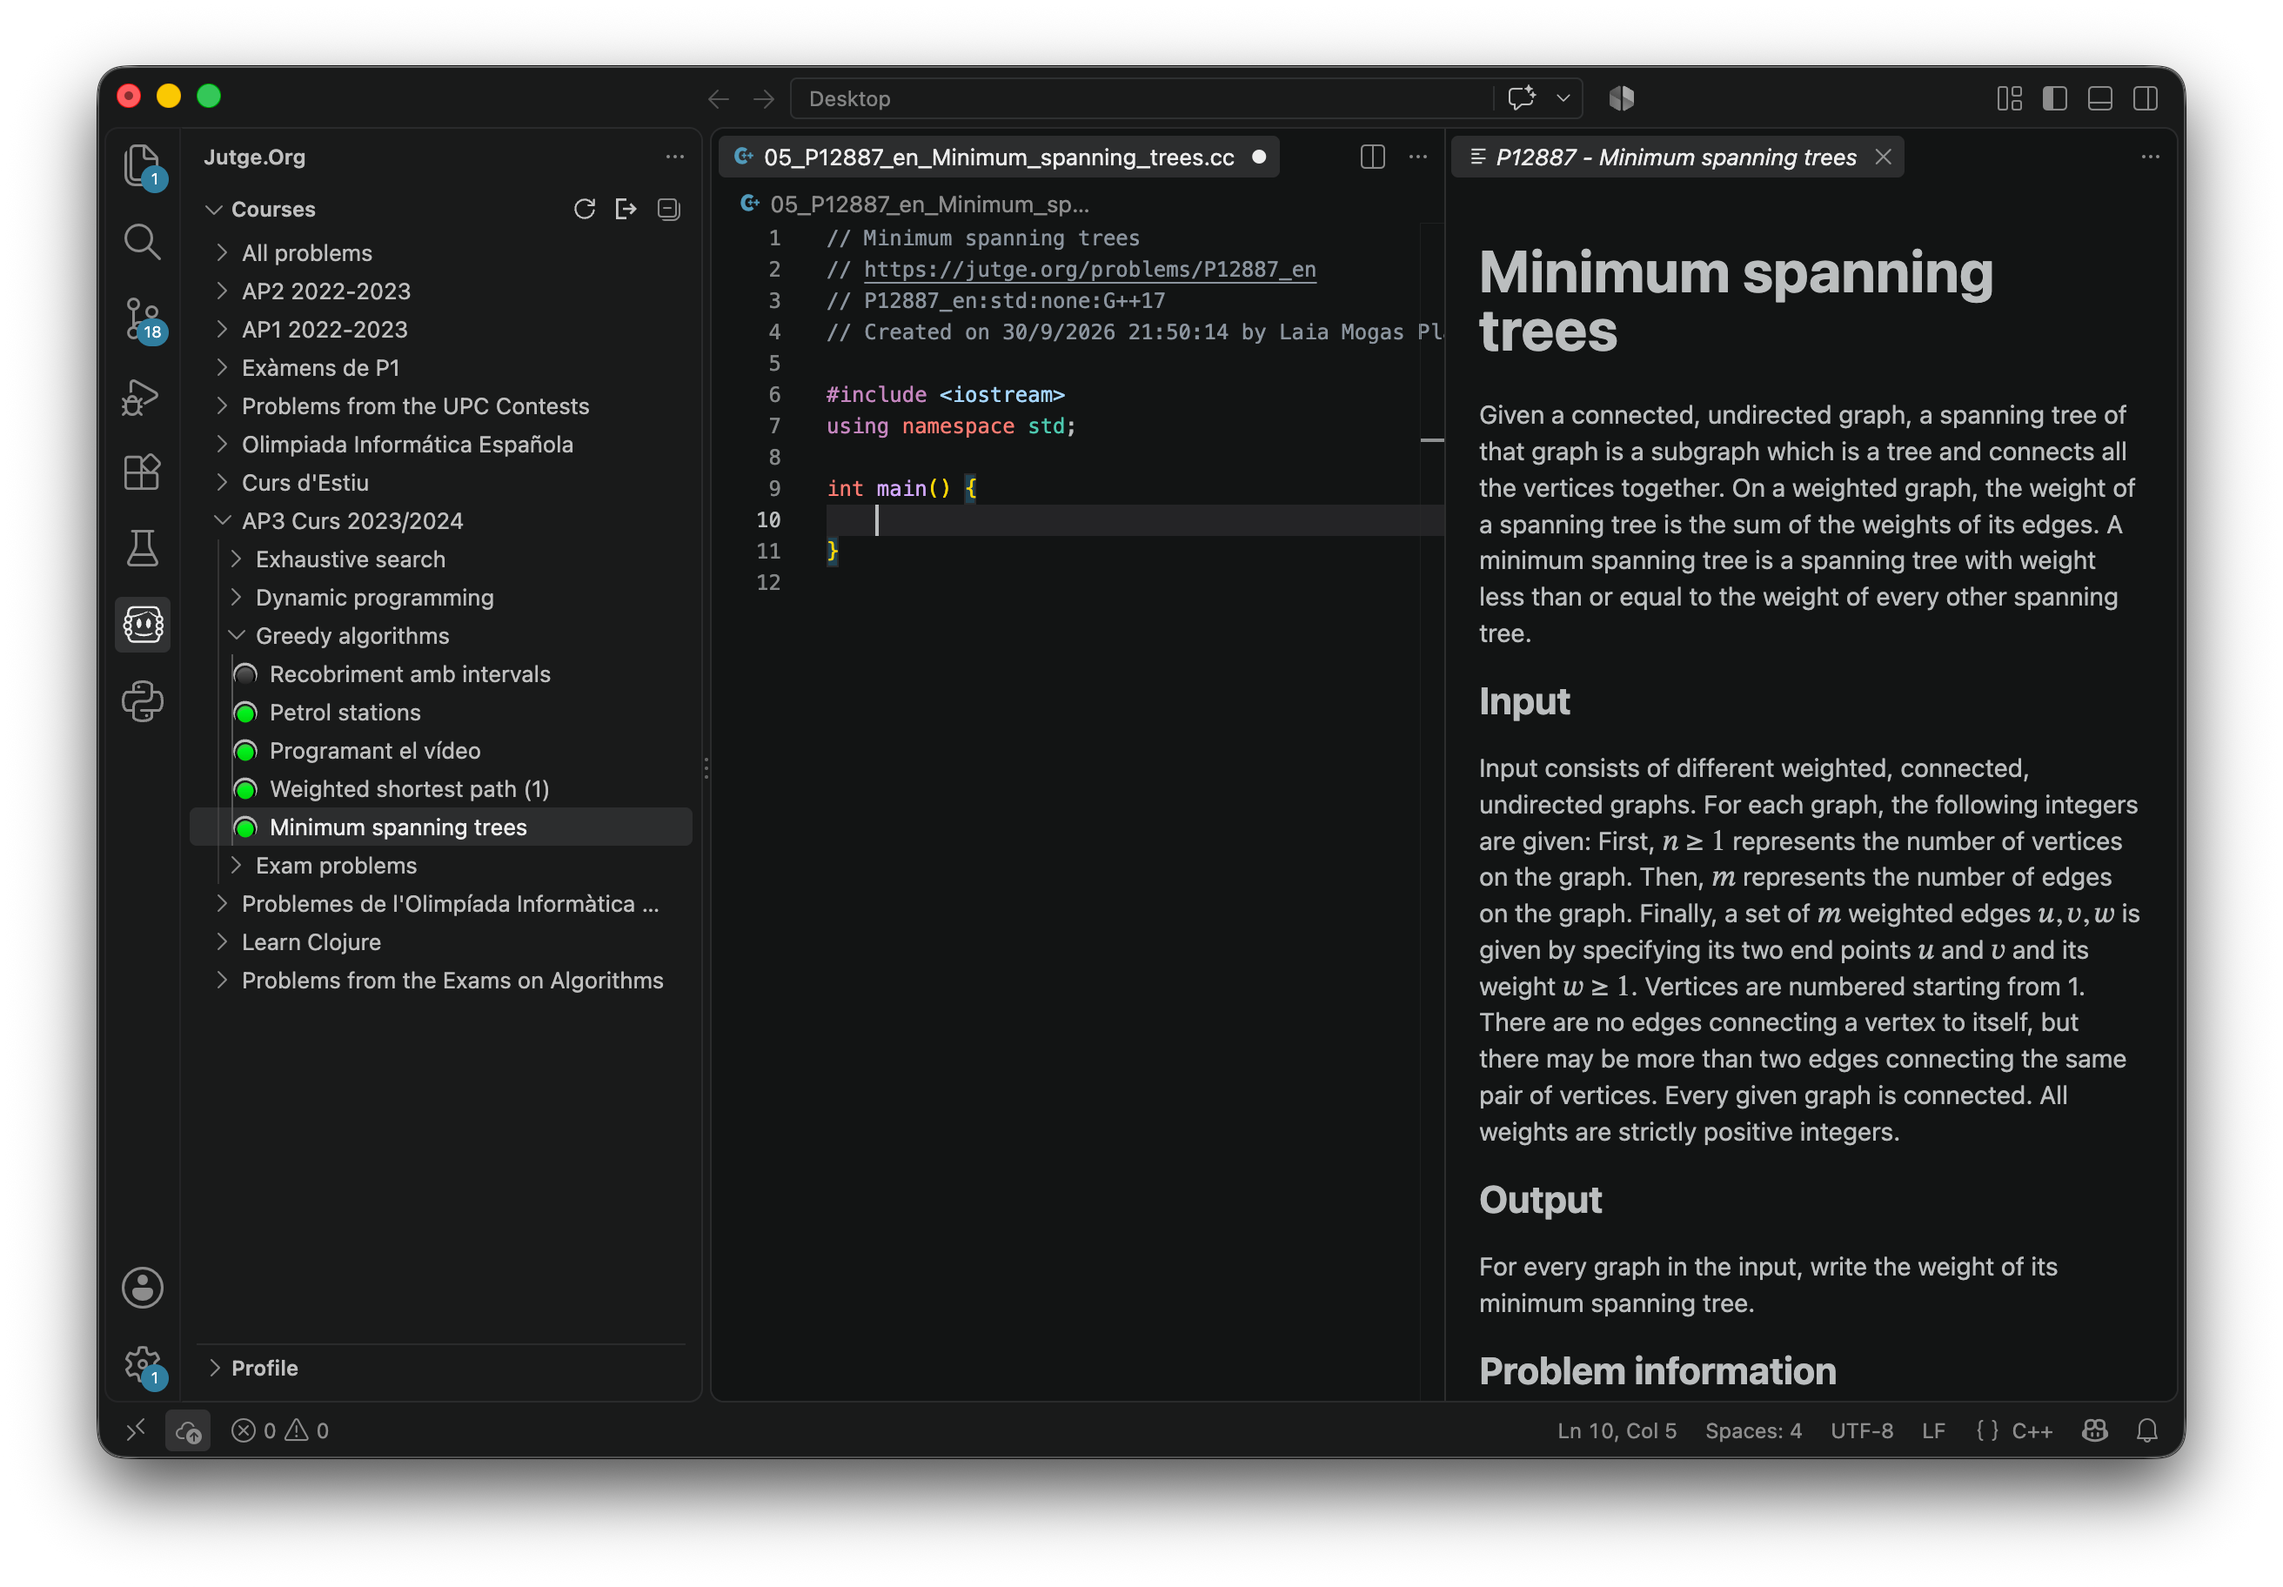
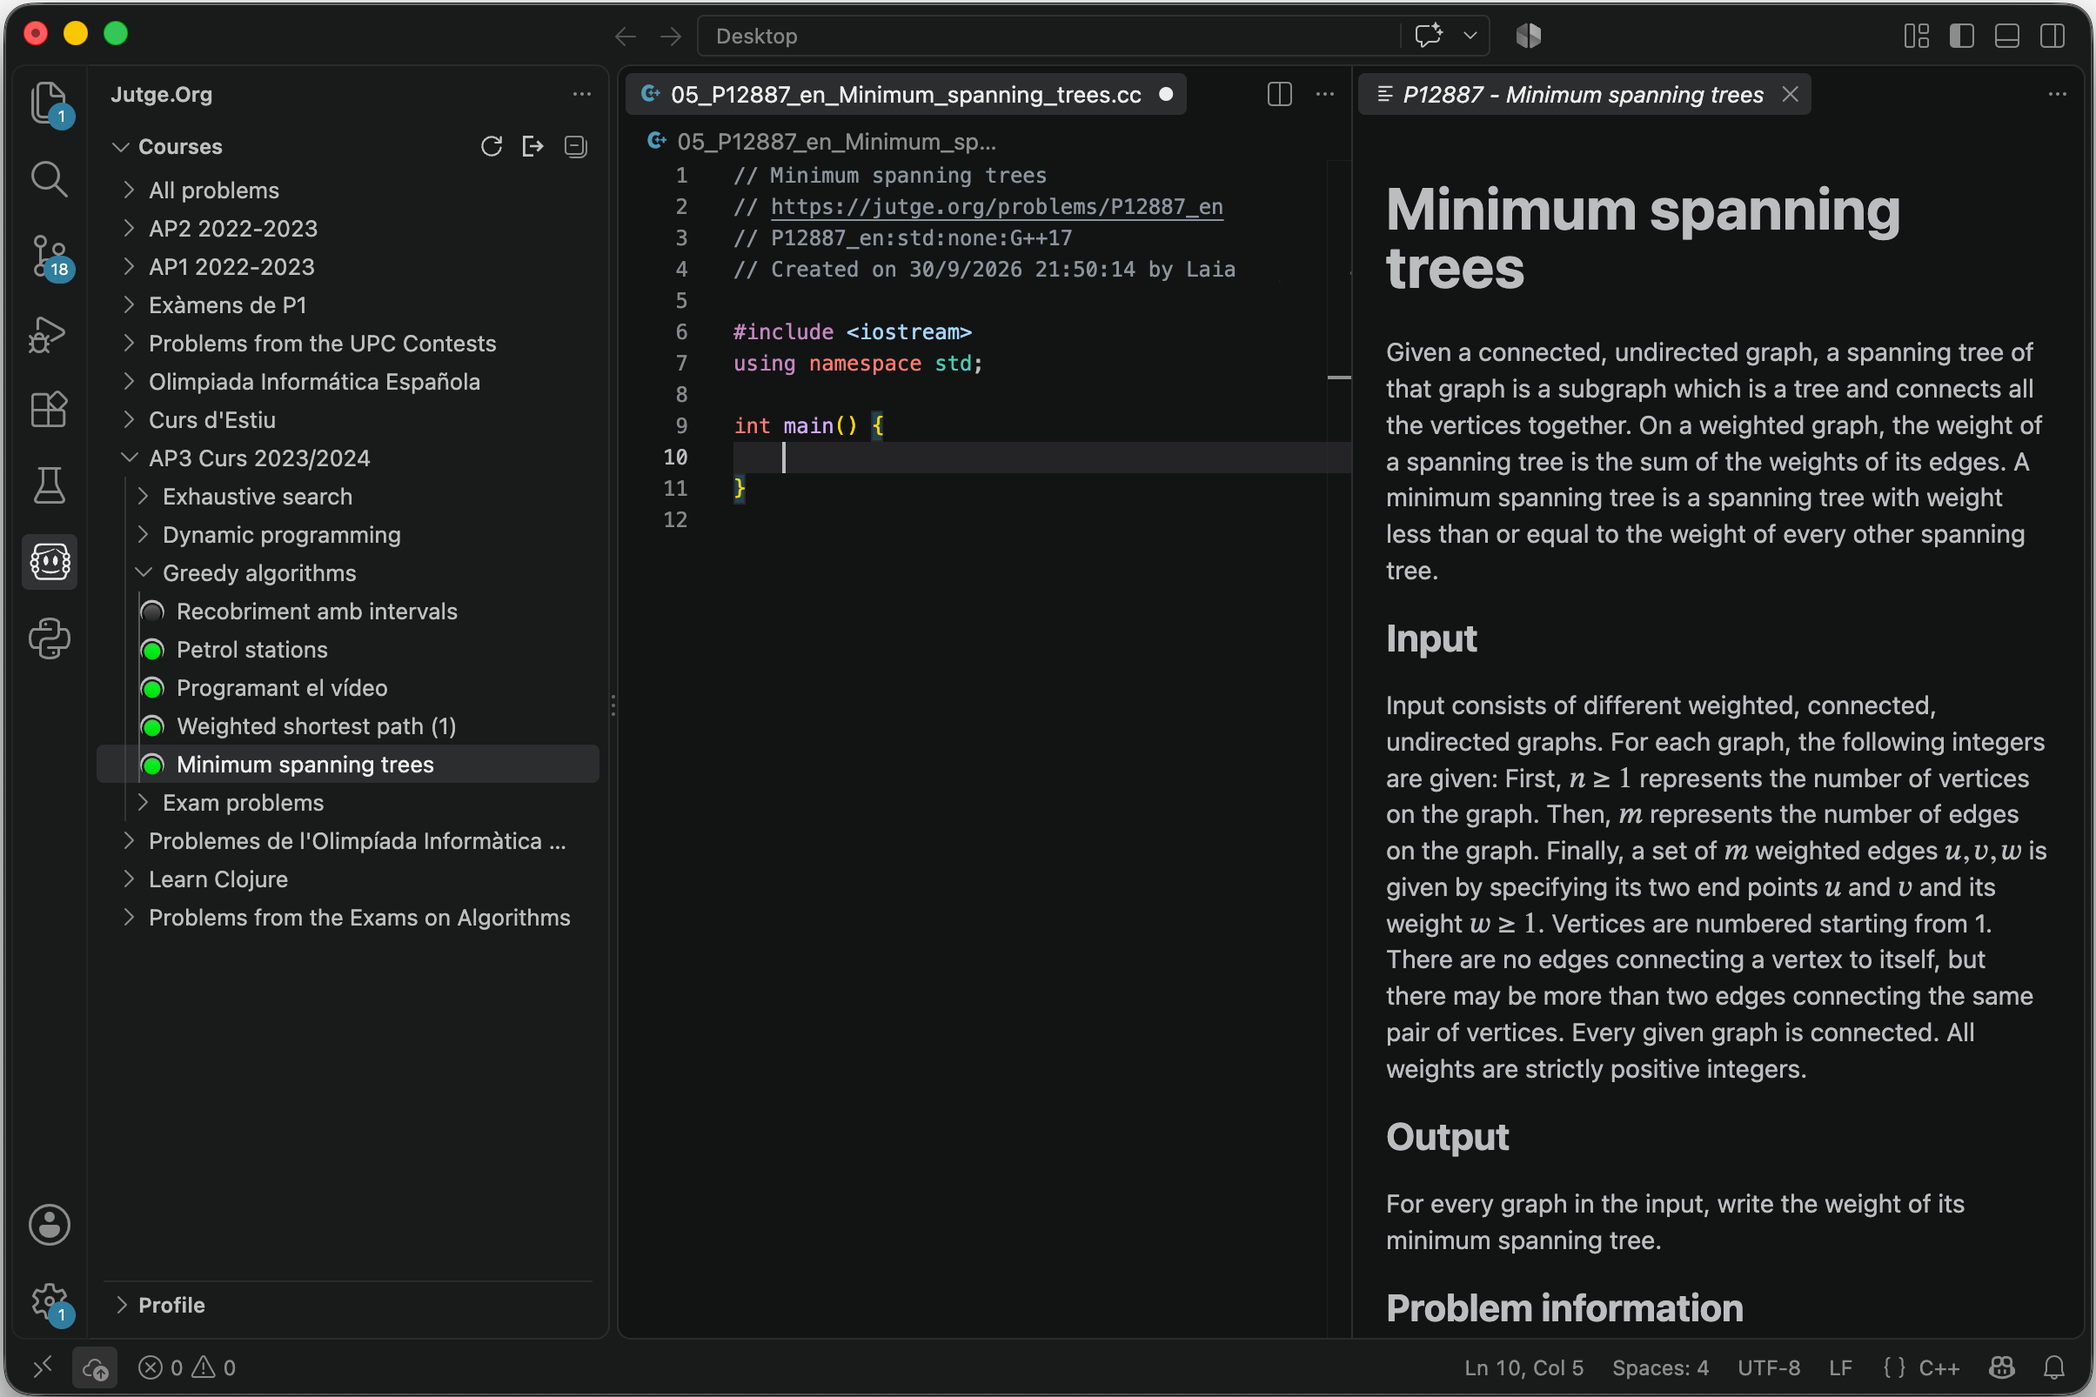
Add tilt effect on hover to HeroBlock and VsCodeBlock.

diff --git a/components/home/TiltFrame.tsx b/components/home/TiltFrame.tsx
@@ -1,0 +1,96 @@
+'use client'
+
+import { motion } from 'motion/react'
+import { useCallback, useRef, useState, type MouseEvent, type ReactNode } from 'react'
+
+const TILT_FACTOR = 20
+const HOVER_SCALE = 1.07
+const PERSPECTIVE = 1000
+const GLARE_INTENSITY = 0.05
+const TILT_TRANSITION = { duration: 0.2, ease: 'easeOut' as const }
+const SHADOW_REST = '0 10px 30px -10px rgba(0, 0, 0, 0.2)'
+const SHADOW_HOVER = '0 25px 50px -12px rgba(0, 0, 0, 0.6)'
+
+type TiltFrameProps = {
+    children: ReactNode
+    className?: string
+    frameClassName?: string
+    staticClassName?: string
+    reducedMotion?: boolean
+    glare?: boolean
+    shadow?: boolean
+}
+
+export function TiltFrame({
+    children,
+    className,
+    frameClassName,
+    staticClassName,
+    reducedMotion = false,
+    glare = true,
+    shadow = true,
+}: TiltFrameProps) {
+    const frameRef = useRef<HTMLDivElement>(null)
+    const [hovered, setHovered] = useState(false)
+    const [tilt, setTilt] = useState({ x: 0, y: 0 })
+    const [glarePosition, setGlarePosition] = useState({ x: 50, y: 50 })
+
+    const onMouseMove = useCallback((event: MouseEvent<HTMLDivElement>) => {
+        const element = frameRef.current
+        if (!element) return
+        const rect = element.getBoundingClientRect()
+        const x = ((event.clientX - rect.left) / rect.width - 0.5) * 100
+        const y = ((event.clientY - rect.top) / rect.height - 0.5) * 100
+        setGlarePosition({ x: x / 2 + 50, y: y / 2 + 50 })
+        setTilt({ x: -(y / 50) * TILT_FACTOR, y: (x / 50) * TILT_FACTOR })
+    }, [])
+
+    if (reducedMotion) {
+        return <div className={staticClassName ?? className}>{children}</div>
+    }
+
+    return (
+        <div
+            ref={frameRef}
+            className={className}
+            style={{ perspective: `${PERSPECTIVE}px` }}
+            onMouseEnter={() => setHovered(true)}
+            onMouseLeave={() => {
+                setHovered(false)
+                setTilt({ x: 0, y: 0 })
+            }}
+            onMouseMove={onMouseMove}
+        >
+            <motion.div
+                animate={{ scale: hovered ? HOVER_SCALE : 1 }}
+                className="pointer-events-none"
+                style={{ transformStyle: 'preserve-3d' }}
+                transition={TILT_TRANSITION}
+            >
+                <motion.div
+                    animate={{
+                        rotateX: tilt.x,
+                        rotateY: tilt.y,
+                        ...(shadow ? { boxShadow: hovered ? SHADOW_HOVER : SHADOW_REST } : {}),
+                    }}
+                    className={frameClassName}
+                    style={{ transformStyle: 'preserve-3d' }}
+                    transition={TILT_TRANSITION}
+                >
+                    {children}
+                    {glare ? (
+                        <motion.div
+                            aria-hidden
+                            animate={{ opacity: hovered ? 1 : 0 }}
+                            className="pointer-events-none absolute inset-0"
+                            style={{
+                                background: `radial-gradient(circle at ${glarePosition.x}% ${glarePosition.y}%, rgba(255, 255, 255, ${GLARE_INTENSITY}) 0%, rgba(255, 255, 255, 0) 80%)`,
+                            }}
+                            transition={TILT_TRANSITION}
+                        />
+                    ) : null}
+                </motion.div>
+            </motion.div>
+        </div>
+    )
+}

diff --git a/components/home/VsCodeBlock.tsx b/components/home/VsCodeBlock.tsx
@@ -1,5 +1,6 @@
 'use client'
 
+import { TiltFrame } from '@/components/home/TiltFrame'
 import MaskRevealUp from '@/components/smoothui/mask-reveal-up'
 import SmoothButton from '@/components/smoothui/smooth-button'
 import { CodeIcon } from 'lucide-react'
@@ -7,6 +8,19 @@ import { motion, useReducedMotion } from 'motion/react'
 import Image from 'next/image'
 
 const EXTENSION_URL = 'vscode:extension/jutge-org.jutge-vscode'
+
+function Screenshot() {
+    return (
+        <Image
+            src="/screenshots/vscode.webp"
+            alt="Visual Studio Code with the Jutge.org extension: a course problem list, a C++ editor, and the statement for Minimum spanning trees"
+            width={2400}
+            height={1600}
+            sizes="(min-width: 896px) 56rem, 100vw"
+            className="h-auto w-full"
+        />
+    )
+}
 
 export function VsCodeBlock() {
     const shouldReduceMotion = useReducedMotion()
@@ -37,16 +51,14 @@ export function VsCodeBlock() {
                         Browse your courses, read statements, and write solutions within your favorite editor with the
                         Jutge.org extension for Visual Studio Code.
                     </MaskRevealUp>
-                    <div className="mx-auto max-w-4xl overflow-hidden rounded-xl shadow-lg">
-                        <Image
-                            src="/screenshots/vscode.webp"
-                            alt="Visual Studio Code with the Jutge.org extension: a course problem list, a C++ editor, and the statement for Minimum spanning trees"
-                            width={2624}
-                            height={1824}
-                            sizes="(min-width: 896px) 56rem, 100vw"
-                            className="h-auto w-full"
-                        />
-                    </div>
+                    <TiltFrame
+                        className="mx-auto max-w-4xl py-4"
+                        frameClassName="relative overflow-hidden rounded-xl"
+                        reducedMotion={Boolean(shouldReduceMotion)}
+                        staticClassName="mx-auto max-w-4xl overflow-hidden rounded-xl shadow-lg"
+                    >
+                        <Screenshot />
+                    </TiltFrame>
                     <SmoothButton asChild className="" color="accent" variant="candy">
                         <a href={EXTENSION_URL}>
                             <CodeIcon className="size-4 shrink-0" aria-hidden />

diff --git a/components/home/HeroBlock.tsx b/components/home/HeroBlock.tsx
@@ -5,6 +5,7 @@ import Image from 'next/image'
 import { useRef } from 'react'
 
 import { useAppearancePreferences } from '@/components/AppearancePreferencesProvider'
+import { TiltFrame } from '@/components/home/TiltFrame'
 import MaskRevealUp from '@/components/smoothui/mask-reveal-up'
 import { isMotionReduced } from '@/lib/reducedMotion'
 import { isSoundEffectsEnabled } from '@/lib/soundEffects'
@@ -162,7 +163,9 @@ function HeroLogo() {
                     }
                 }}
             >
-                <Image src="/jutge/modern.webp" alt="" width={192} height={192} loading="eager" />
+                <TiltFrame className="w-fit p-2" frameClassName="relative" glare={false} shadow={false}>
+                    <Image src="/jutge/modern.webp" alt="" width={192} height={192} loading="eager" />
+                </TiltFrame>
             </button>
         </div>
     )
